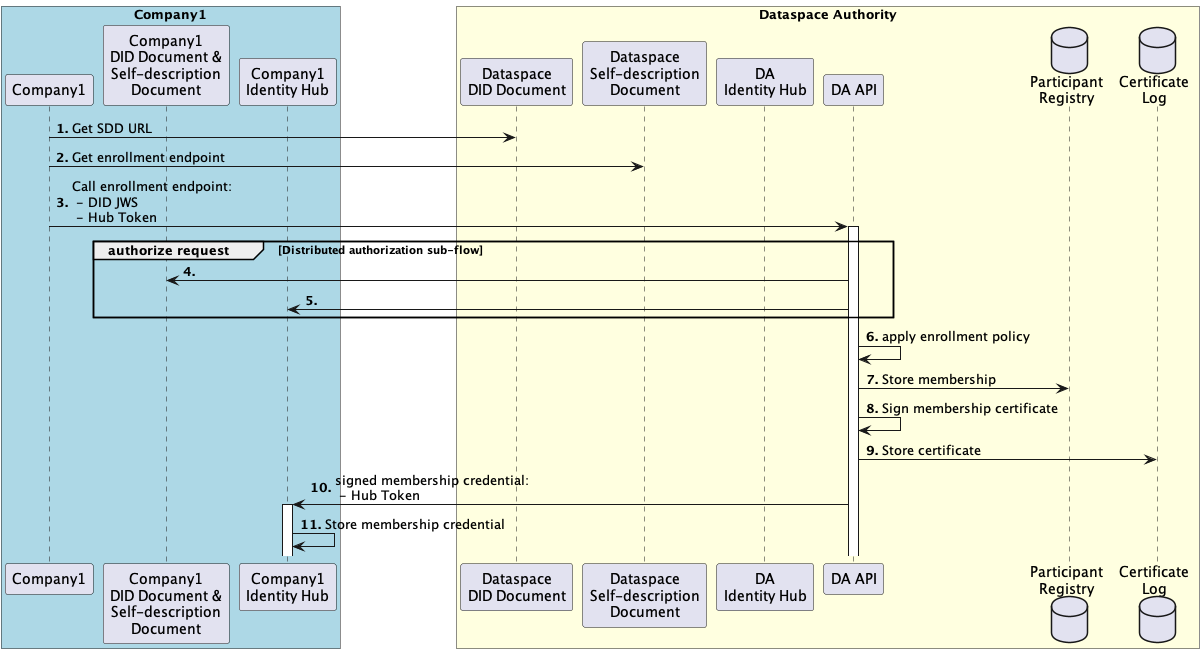
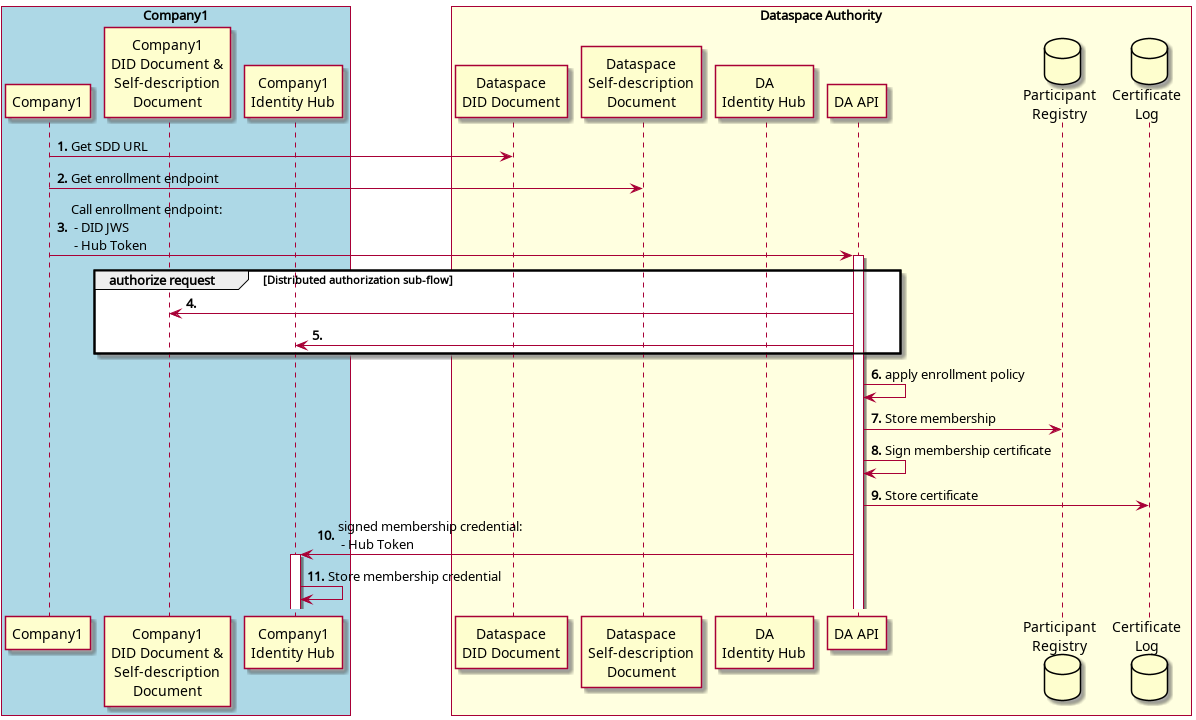
added distr-auth subflow, refactored diagrams

diff --git a/registration-service/README.md b/registration-service/README.md
@@ -30,6 +30,45 @@ In future iterations it could even be possible to move certain parts of the regi
 
 
 ## Operations
+
+### 0. Authorization sub-flow
+
+This sub-flow is used within the flows further in this document, for a service to authenticate and authorize requests from a Dataspace Participant.
+
+#### Participants
+
+1. A Participant A, which performs a request to Participant B. Participant A could be a company enrolled within a dataspace.
+2. A Participant B, which serves a request to Participant A, and needs to establish Participant A's credentials. Participant B could be a company enrolled within a dataspace, or the Dataspace Authority, depending on the flow.
+
+#### Overview
+
+Participant A needs to establish its identity and credentials in order to access a service from Participant B. Selecting and transporting Participant A's verifiable credentials in request headers would be too bulky and put too much logic in the client code. Therefore, Participant A sends it DID (in a JWS) and a bearer token, allowing Participant B to authenticate the request, and obtain Participant A's verifiable credentials from its Identity Hub.
+
+A DID JWS cannot be used by Participant B to authenticate itself to Participant A's Identity Hub, as endless recursion would ensue.
+
+#### Pre-conditions
+
+1. Participant A has deployed an Identity Hub service, and a DID Document containing the Identity Hub URL.
+2. Participant A's Identity Hub contains VCs that satisfy Participant B's service access policy.
+
+#### Post-conditions
+
+None
+
+#### Flow sequence
+
+![distributed-authorization](distributed-authorization.png)
+
+1. The Client for Participant A (which could be EDC, or any other application) sends a request to Participant B's API. The client needs access to Participant A's Private Key to sign a JWS. It also sends a time-limited bearer token granting access to its Identity Hub.
+2. Participant B retrieves the DID Document based on the DID URI contained in the JWS.
+3. Participant B authenticates the request by validating the JWS signature against the public key in the DID Document.
+4. Participant B retrieves the Self-description Document based on the URL contained in the DID Document.
+5. Participant B finds Participant A's Identity Hub URL in the Self-description Document. It authorizes the request by obtaining VCs for Participant A at its Identity Hub, using the bearer token sent initially by Participant A.
+6. Participant A's Identity Hub verifies the bearer token validity.
+7. Participant A's Identity Hub returns Participant A's Verifiable Credentials.
+8. Participant B applies its access policy for the given service. This applies expiration dates and Certificate Revocation Lists to filter valid Verifiable Credentials, and rules specific to a given service. For example, the caller must be a dataspace participant (i.e. have a valid Verifiable Credential signed by the Dataspace Authority, that establishes its dataspace membership).
+9. Participant B returns the service response if the request was successfully authorized, otherwise, an error response. Depending on the flow, the response can be synchronously or asynchronously returned.
+
 ### 1. Onboarding
 
 #### Participants
@@ -148,6 +187,7 @@ None
 9. The EDC for Company1 iterates through the list of DID URIs, retrieves the corresponding DID documents, and from it resolves each participant's Self Description document. The Self Description document contains all relevant information such as IDS endpoints.
 
 _Note: Steps 1 - 2 could be cached_
+
 
 
 ## Data Models (wip)
